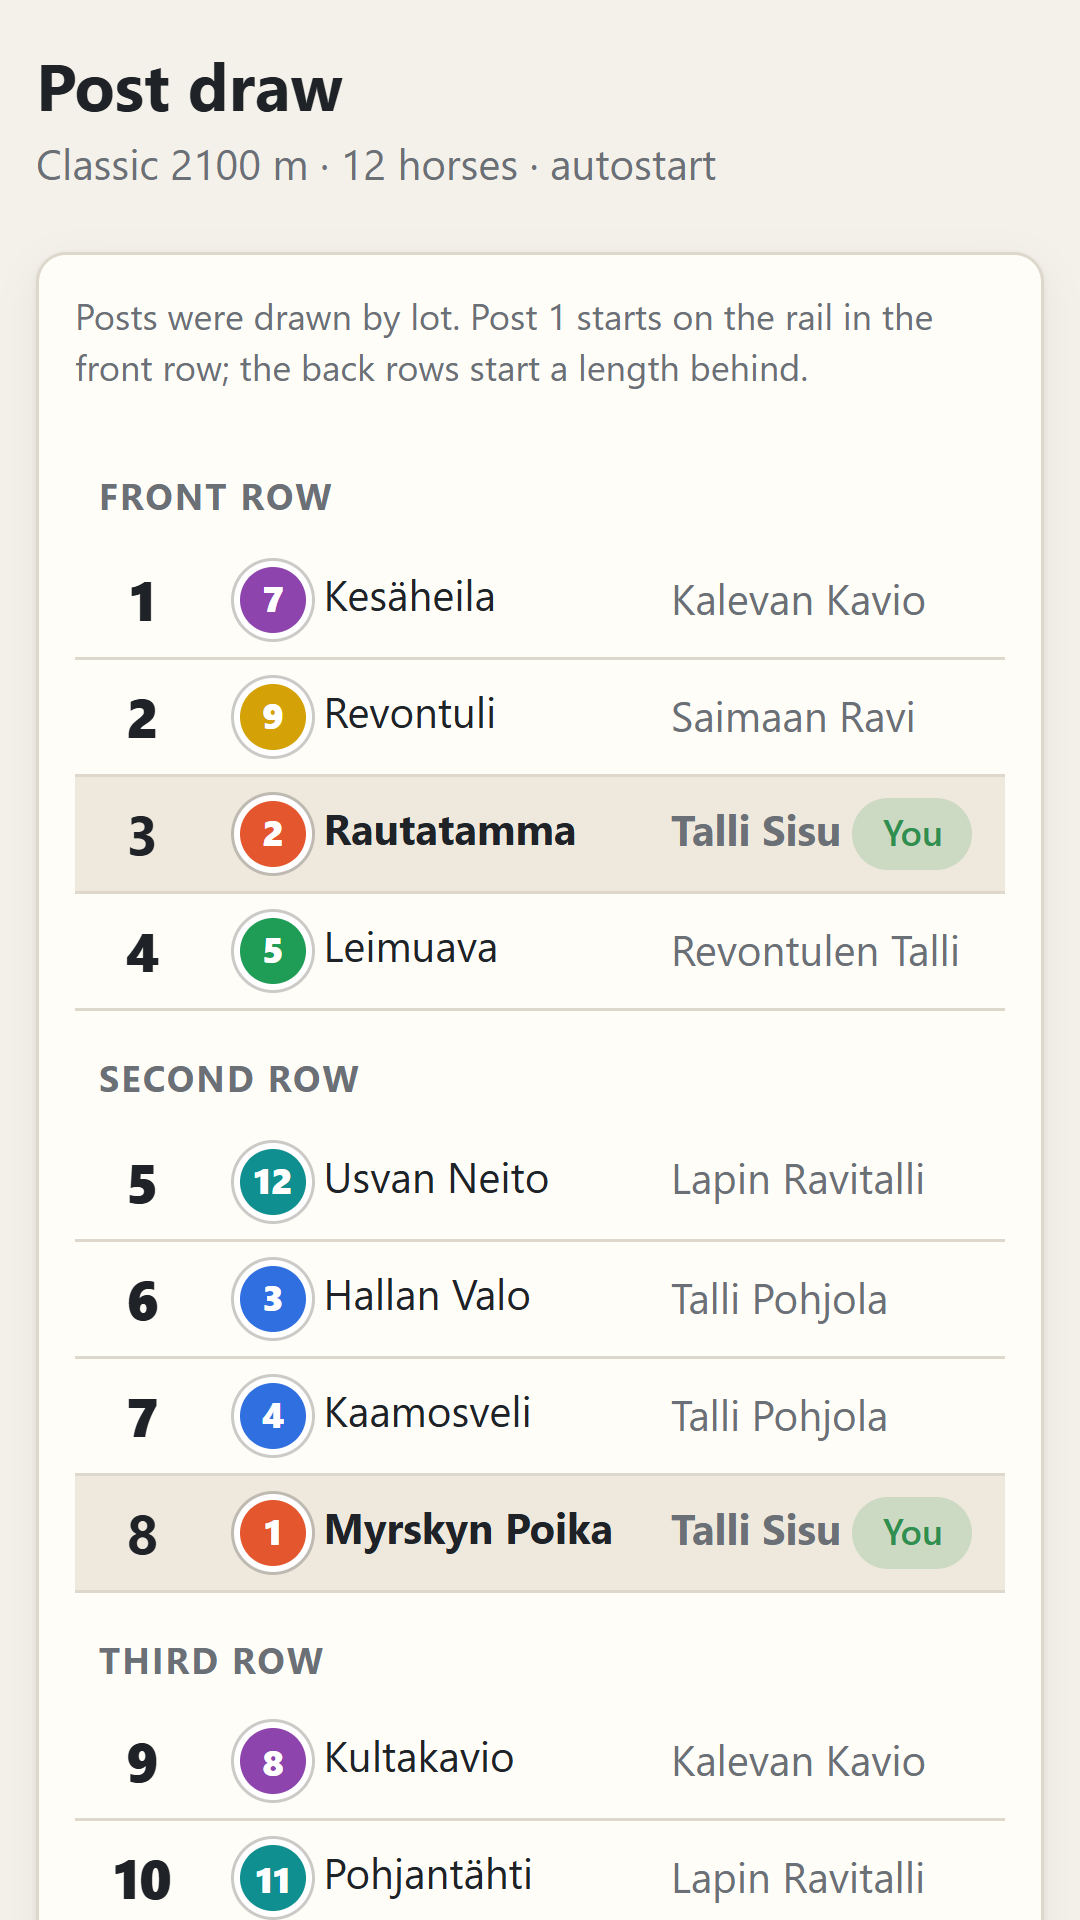
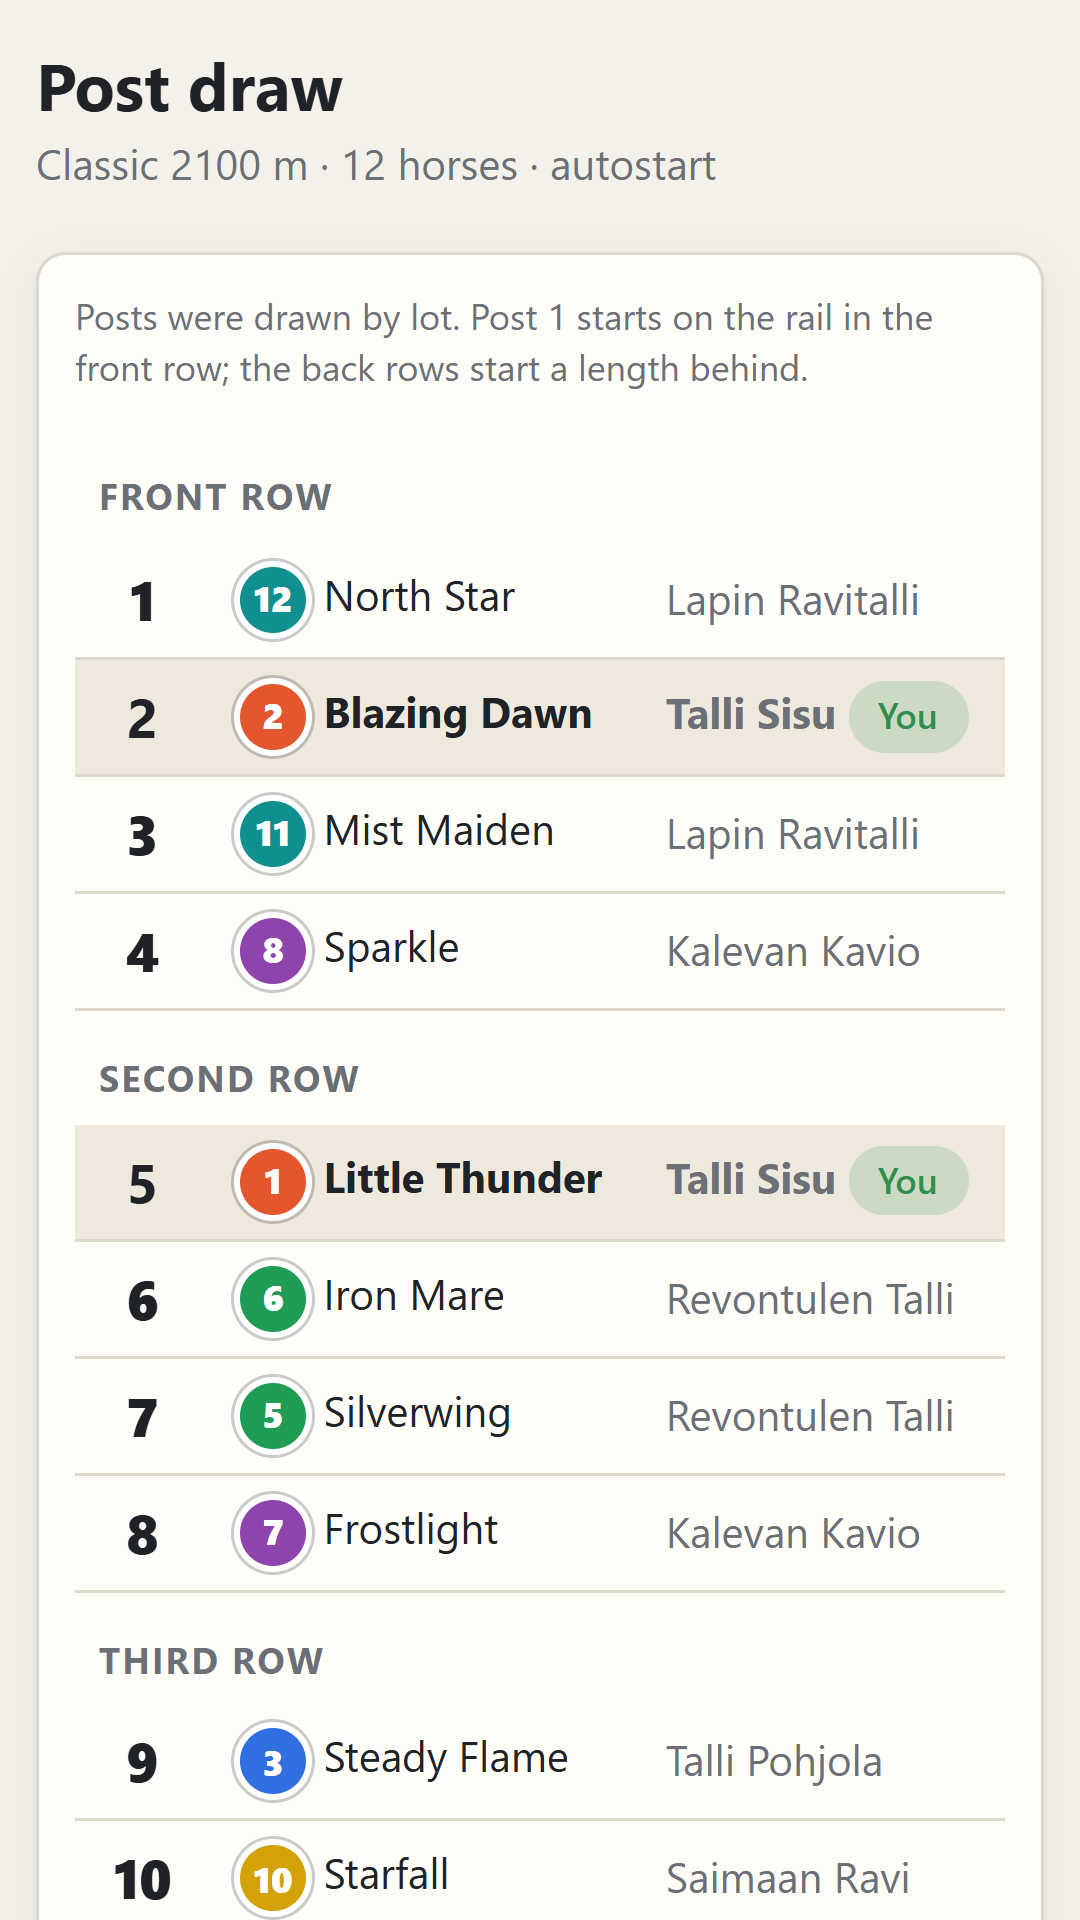
Use English horse names

diff --git a/src/ui/app.js b/src/ui/app.js
@@ -9,9 +9,9 @@
   const TEAM_NAMES = ['Talli Pohjola', 'Revontulen Talli', 'Kalevan Kavio', 'Saimaan Ravi', 'Lapin Ravitalli'];
   const TEAM_COLORS = ['#2f6fdf', '#1f9d57', '#8e44ad', '#d4a106', '#0f8f8f'];
   const HUMAN_COLOR = '#e4572e';
-  const HORSE_NAMES = ['Tähtisade', 'Myrskyn Poika', 'Salamaveikko', 'Tuulen Tytär', 'Kultakavio', 'Revontuli', 'Pikku Ukkonen', 'Hopeasiipi',
-    'Routaprinssi', 'Sisun Liekki', 'Kesäheila', 'Pohjantähti', 'Usvan Neito', 'Rautatamma', 'Hallan Valo', 'Kaamosveli',
-    'Aallon Ruhtinas', 'Leimuava', 'Kipinätär', 'Jäähile'];
+  const HORSE_NAMES = ['Starfall', 'Storm Son', 'Lightning Lad', 'Wind Daughter', 'Golden Hoof', 'Northern Light', 'Little Thunder', 'Silverwing',
+    'Frost Prince', 'Steady Flame', 'Summer Fling', 'North Star', 'Mist Maiden', 'Iron Mare', 'Frostlight', 'Dark Winter',
+    'Wave Prince', 'Blazing Dawn', 'Sparkle', 'Ice Crystal'];
   const DIFFICULTY_BLURB = {
     easy: 'Rivals misjudge their pace and make their run late. Good for learning.',
     normal: 'A mixed field of all four driving styles.',
